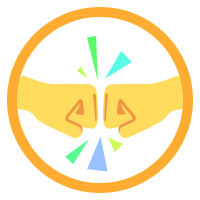
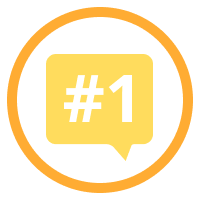
On-boarding toasts: Update message, show at correct point

Changed region(s): [[0.06, 0.18, 0.93, 0.87]]

diff --git a/src/app/_reducers/metrics.effects.ts b/src/app/_reducers/metrics.effects.ts
@@ -62,8 +62,7 @@ export class MetricsEffects {
         default: 
           // Identify if badge was achieved with increment
           let badge = BADGES.find(badge => {
-            console.log(badge)
-            return badge.metric === metric && payload >= badge.value_required
+            return badge.metric === metric && payload === badge.value_required
           })
           // Send associated toast if badge was earned
           if (badge && badge.toast) {

diff --git a/src/app/shared/message-toasts/message-toasts.component.ts b/src/app/shared/message-toasts/message-toasts.component.ts
@@ -35,8 +35,8 @@ export class MessageToastsComponent implements OnInit {
       promoted: 'icon-promote',
       'new-feedback': 'icon-feedback',
       'new-reply': 'icon-reply-arrow',
-      'first-reading': 'badge-reading-1',
-      'first-comment': 'badge-comment-1'
+      'first-reading': 'icon-badge badge-reading-1',
+      'first-comment': 'icon-badge badge-comment-1'
     }
     return toastTypeMap[toastType] || toastTypeMap['info']
   }

diff --git a/src/app/badges/badges.ts b/src/app/badges/badges.ts
@@ -21,7 +21,7 @@ export const BADGES: BadgeData[] = [
         toast: {
             type: 'first-comment',
             id: 'firstcomment',
-            message: '<b></b><br/>Boom! First comment<br/>',
+            message: '<b>Well said!</b><br/>You made your first comment',
             requireDismiss: true
         }
     }

diff --git a/src/sass/_toast.scss b/src/sass/_toast.scss
@@ -27,6 +27,12 @@
     margin-right: 0.75em;
     min-height: 20px;
     min-width: 20px;
+
+    &.icon-badge {
+      // Extra large badge icons for drama~
+      width: 3em;
+      height: 3em;
+    }
   }
 
   // specific icon tweaks
